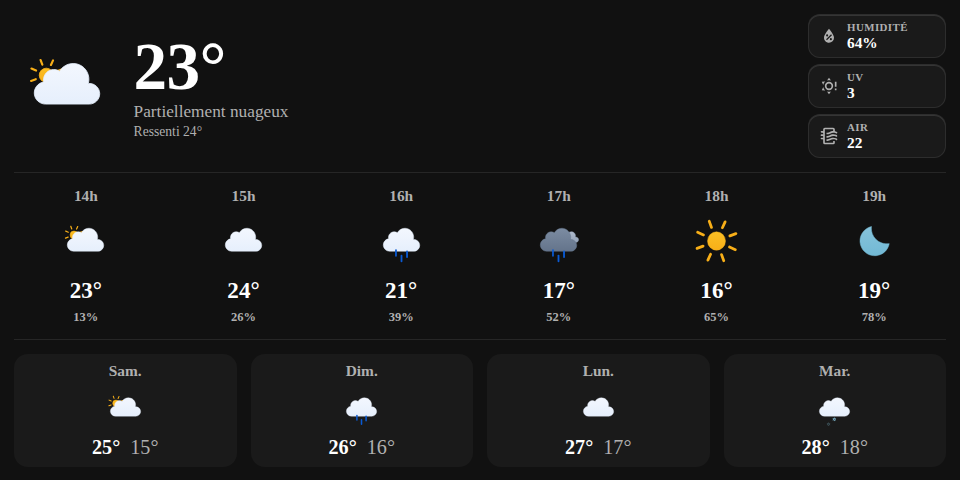
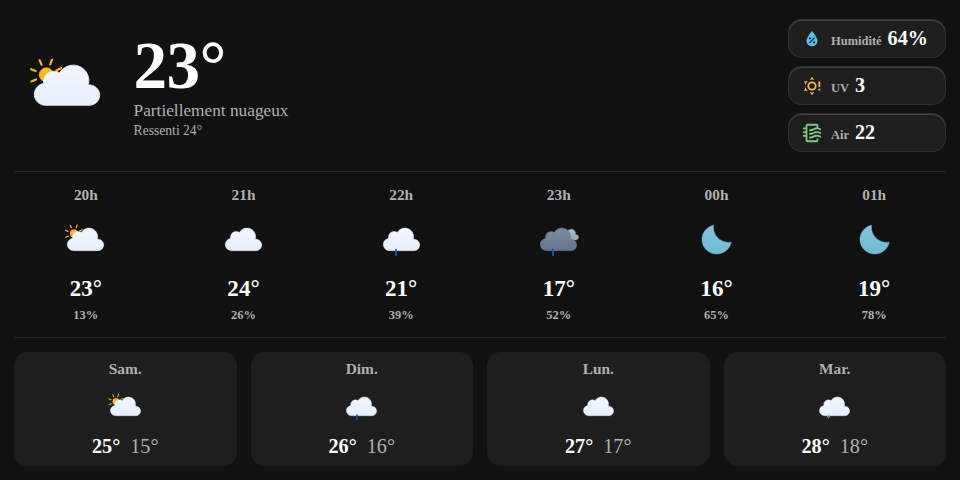
fix: single-line env-tile badges to resolve overflow while staying bold
Les tuiles humidité/UV/qualité de l'air passent d'un empilement à 2
lignes (icône + colonne label/valeur) à un badge pilule sur une seule
ligne (icône + label + valeur inline). Ça corrige le débordement
vertical introduit par le précédent passage "plus gros/plus vif"
(min-height forcé qui dépassait la hauteur naturelle du bloc météo
actuelle), tout en gardant une police et un contraste plus marqués
qu'avant (fond de tuile plus opaque, icônes colorées).

Vérifié sans dépassement sur le harness 960x480 (cardScrollHeight ==
cardClientHeight == 480).

diff --git a/dist/echo-weather-card.js b/dist/echo-weather-card.js
@@ -48,7 +48,7 @@ const xt = (r) => new ft(typeof r == "string" ? r : r + "", void 0, G), Et = (r,
  * Copyright 2017 Google LLC
  * SPDX-License-Identifier: BSD-3-Clause
  */
-const { is: Ct, defineProperty: zt, getOwnPropertyDescriptor: Ot, getOwnPropertyNames: Pt, getOwnPropertySymbols: Ut, getPrototypeOf: Tt } = Object, y = globalThis, Q = y.trustedTypes, kt = Q ? Q.emptyScript : "", D = y.reactiveElementPolyfillSupport, S = (r, t) => r, V = { toAttribute(r, t) {
+const { is: Ct, defineProperty: zt, getOwnPropertyDescriptor: Ot, getOwnPropertyNames: Pt, getOwnPropertySymbols: Ut, getPrototypeOf: Tt } = Object, y = globalThis, Q = y.trustedTypes, kt = Q ? Q.emptyScript : "", q = y.reactiveElementPolyfillSupport, S = (r, t) => r, V = { toAttribute(r, t) {
   switch (t) {
     case Boolean:
       r = r ? kt : null;
@@ -288,14 +288,14 @@ let w = class extends HTMLElement {
   }
 };
 var dt;
-w.elementStyles = [], w.shadowRootOptions = { mode: "open" }, w[S("elementProperties")] = /* @__PURE__ */ new Map(), w[S("finalized")] = /* @__PURE__ */ new Map(), D == null || D({ ReactiveElement: w }), ((dt = y.reactiveElementVersions) != null ? dt : y.reactiveElementVersions = []).push("2.1.2");
+w.elementStyles = [], w.shadowRootOptions = { mode: "open" }, w[S("elementProperties")] = /* @__PURE__ */ new Map(), w[S("finalized")] = /* @__PURE__ */ new Map(), q == null || q({ ReactiveElement: w }), ((dt = y.reactiveElementVersions) != null ? dt : y.reactiveElementVersions = []).push("2.1.2");
 /**
  * @license
  * Copyright 2017 Google LLC
  * SPDX-License-Identifier: BSD-3-Clause
  */
-const C = globalThis, tt = (r) => r, H = C.trustedTypes, et = H ? H.createPolicy("lit-html", { createHTML: (r) => r }) : void 0, yt = "$lit$", m = `lit$${Math.random().toFixed(9).slice(2)}$`, $t = "?" + m, Rt = `<${$t}>`, b = document, O = () => b.createComment(""), P = (r) => r === null || typeof r != "object" && typeof r != "function", J = Array.isArray, Ht = (r) => J(r) || typeof (r == null ? void 0 : r[Symbol.iterator]) == "function", q = `[ 	
-\f\r]`, E = /<(?:(!--|\/[^a-zA-Z])|(\/?[a-zA-Z][^>\s]*)|(\/?$))/g, it = /-->/g, st = />/g, $ = RegExp(`>|${q}(?:([^\\s"'>=/]+)(${q}*=${q}*(?:[^ 	
+const C = globalThis, tt = (r) => r, H = C.trustedTypes, et = H ? H.createPolicy("lit-html", { createHTML: (r) => r }) : void 0, yt = "$lit$", m = `lit$${Math.random().toFixed(9).slice(2)}$`, $t = "?" + m, Rt = `<${$t}>`, b = document, O = () => b.createComment(""), P = (r) => r === null || typeof r != "object" && typeof r != "function", J = Array.isArray, Ht = (r) => J(r) || typeof (r == null ? void 0 : r[Symbol.iterator]) == "function", D = `[ 	
+\f\r]`, E = /<(?:(!--|\/[^a-zA-Z])|(\/?[a-zA-Z][^>\s]*)|(\/?$))/g, it = /-->/g, st = />/g, $ = RegExp(`>|${D}(?:([^\\s"'>=/]+)(${D}*=${D}*(?:[^ 	
 \f\r"'\`<>=]|("|')|))|$)`, "g"), rt = /'/g, nt = /"/g, gt = /^(?:script|style|textarea|title)$/i, Mt = (r) => (t, ...e) => ({ _$litType$: r, strings: t, values: e }), p = Mt(1), A = Symbol.for("lit-noChange"), d = Symbol.for("lit-nothing"), ot = /* @__PURE__ */ new WeakMap(), g = b.createTreeWalker(b, 129);
 function vt(r, t) {
   if (!J(r) || !r.hasOwnProperty("raw")) throw Error("invalid template strings array");
@@ -327,7 +327,7 @@ class U {
       if (s.nodeType === 1) {
         if (s.hasAttributes()) for (const u of s.getAttributeNames()) if (u.endsWith(yt)) {
           const _ = h[o++], f = s.getAttribute(u).split(m), k = /([.?@])?(.*)/.exec(_);
-          a.push({ type: 1, index: n, name: k[2], strings: f, ctor: k[1] === "." ? qt : k[1] === "?" ? Lt : k[1] === "@" ? jt : M }), s.removeAttribute(u);
+          a.push({ type: 1, index: n, name: k[2], strings: f, ctor: k[1] === "." ? Dt : k[1] === "?" ? Lt : k[1] === "@" ? jt : M }), s.removeAttribute(u);
         } else u.startsWith(m) && (a.push({ type: 6, index: n }), s.removeAttribute(u));
         if (gt.test(s.tagName)) {
           const u = s.textContent.split(m), _ = u.length - 1;
@@ -357,7 +357,7 @@ function x(r, t, e = r, i) {
   const n = P(t) ? void 0 : t._$litDirective$;
   return (s == null ? void 0 : s.constructor) !== n && ((l = s == null ? void 0 : s._$AO) == null || l.call(s, !1), n === void 0 ? s = void 0 : (s = new n(r), s._$AT(r, e, i)), i !== void 0 ? ((a = e._$Co) != null ? a : e._$Co = [])[i] = s : e._$Cl = s), s !== void 0 && (t = x(r, s._$AS(r, t.values), s, i)), t;
 }
-class Dt {
+class qt {
   constructor(t, e) {
     this._$AV = [], this._$AN = void 0, this._$AD = t, this._$AM = e;
   }
@@ -423,7 +423,7 @@ class T {
     const { values: e, _$litType$: i } = t, s = typeof i == "number" ? this._$AC(t) : (i.el === void 0 && (i.el = U.createElement(vt(i.h, i.h[0]), this.options)), i);
     if (((n = this._$AH) == null ? void 0 : n._$AD) === s) this._$AH.p(e);
     else {
-      const o = new Dt(s, this), l = o.u(this.options);
+      const o = new qt(s, this), l = o.u(this.options);
       o.p(e), this.T(l), this._$AH = o;
     }
   }
@@ -475,7 +475,7 @@ class M {
     t === d ? this.element.removeAttribute(this.name) : this.element.setAttribute(this.name, t != null ? t : "");
   }
 }
-class qt extends M {
+class Dt extends M {
   constructor() {
     super(...arguments), this.type = 3;
   }
@@ -773,18 +773,21 @@ class W extends z {
   _renderEnvStrip(t) {
     const e = [], i = t.attributes.humidity;
     this._config.show_humidity && i != null && e.push({
+      type: "humidity",
       icon: "mdi:water-percent",
       label: "Humidité",
       value: `${Math.round(i)}%`
     });
     const s = this._config.uv_entity && this._hass.states[this._config.uv_entity];
     s && !["unknown", "unavailable"].includes(s.state) && e.push({
+      type: "uv",
       icon: "mdi:weather-sunny-alert",
       label: "UV",
       value: s.state
     });
     const n = this._config.air_quality_entity && this._hass.states[this._config.air_quality_entity];
     return n && !["unknown", "unavailable"].includes(n.state) && e.push({
+      type: "air",
       icon: "mdi:air-filter",
       label: "Air",
       value: n.state
@@ -792,7 +795,7 @@ class W extends z {
       <div class="env-strip">
         ${e.map(
       (o) => p`
-            <div class="env-tile">
+            <div class="env-tile env-${o.type}">
               <ha-icon class="env-icon" icon=${o.icon}></ha-icon>
               <div class="env-copy">
                 <span class="env-label">${o.label}</span>
@@ -890,7 +893,7 @@ N(W, "properties", {
         var(--secondary-text-color, #b0b0b0)
       );
       --_divider-color: var(--echo-weather-divider-color, rgba(127, 127, 127, 0.2));
-      --_tile-background: var(--echo-weather-tile-background, rgba(127, 127, 127, 0.09));
+      --_tile-background: var(--echo-weather-tile-background, rgba(127, 127, 127, 0.13));
       font-family: var(--echo-weather-font-family, inherit);
       color: var(--_text-color);
     }
@@ -958,42 +961,53 @@ N(W, "properties", {
     .env-strip {
       display: flex;
       flex-direction: column;
-      gap: 6px;
+      gap: 8px;
       flex-shrink: 0;
       margin-left: auto;
     }
     .env-tile {
-      display: grid;
-      grid-template-columns: auto 1fr;
+      display: flex;
       align-items: center;
       gap: 8px;
-      min-width: 116px;
-      padding: 6px 10px;
-      border-radius: 12px;
+      min-width: 132px;
+      padding: 7px 12px;
+      border-radius: 14px;
       background: var(--_tile-background);
       border: 1px solid var(--_divider-color);
-      box-shadow: inset 0 1px 0 rgba(255, 255, 255, 0.12);
+      box-shadow: inset 0 1px 0 rgba(255, 255, 255, 0.16);
     }
+    /* Une couleur d'accent par indicateur : rompt le tout-gris et rend
+       chaque puce identifiable d'un coup d'œil, sans logique de seuil
+       (bon/mauvais) qui serait too much pour la v1. Tuiles en une seule
+       ligne (icône + libellé + valeur) pour rester compactes en hauteur
+       tout en agrandissant la police. */
     .env-icon {
-      --mdc-icon-size: clamp(16px, 2.2cqw, 20px);
-      color: var(--_secondary-color);
+      --mdc-icon-size: clamp(18px, 2.6cqw, 22px);
+      flex-shrink: 0;
+    }
+    .env-humidity .env-icon {
+      color: var(--echo-weather-humidity-color, #4fc3f7);
+    }
+    .env-uv .env-icon {
+      color: var(--echo-weather-uv-color, #ffb74d);
+    }
+    .env-air .env-icon {
+      color: var(--echo-weather-air-color, #81c784);
     }
     .env-copy {
       display: flex;
-      flex-direction: column;
-      line-height: 1.15;
+      align-items: baseline;
+      gap: 6px;
       min-width: 0;
     }
     .env-label {
-      font-size: clamp(0.68rem, 1.1cqw, 0.78rem);
-      font-weight: 700;
-      text-transform: uppercase;
-      letter-spacing: 0.04em;
+      font-size: clamp(0.78rem, 1.3cqw, 0.92rem);
+      font-weight: 600;
       color: var(--_secondary-color);
       white-space: nowrap;
     }
     .env-value {
-      font-size: clamp(0.95rem, 1.6cqw, 1.1rem);
+      font-size: clamp(1.1rem, 2.1cqw, 1.35rem);
       font-weight: 800;
       white-space: nowrap;
     }

diff --git a/src/echo-weather-card.js b/src/echo-weather-card.js
@@ -158,6 +158,7 @@ class EchoWeatherCard extends LitElement {
     const humidity = stateObj.attributes.humidity;
     if (this._config.show_humidity && humidity != null) {
       tiles.push({
+        type: "humidity",
         icon: "mdi:water-percent",
         label: "Humidité",
         value: `${Math.round(humidity)}%`,
@@ -168,6 +169,7 @@ class EchoWeatherCard extends LitElement {
       this._config.uv_entity && this._hass.states[this._config.uv_entity];
     if (uvObj && !["unknown", "unavailable"].includes(uvObj.state)) {
       tiles.push({
+        type: "uv",
         icon: "mdi:weather-sunny-alert",
         label: "UV",
         value: uvObj.state,
@@ -179,6 +181,7 @@ class EchoWeatherCard extends LitElement {
       this._hass.states[this._config.air_quality_entity];
     if (aqiObj && !["unknown", "unavailable"].includes(aqiObj.state)) {
       tiles.push({
+        type: "air",
         icon: "mdi:air-filter",
         label: "Air",
         value: aqiObj.state,
@@ -191,7 +194,7 @@ class EchoWeatherCard extends LitElement {
       <div class="env-strip">
         ${tiles.map(
           (tile) => html`
-            <div class="env-tile">
+            <div class="env-tile env-${tile.type}">
               <ha-icon class="env-icon" icon=${tile.icon}></ha-icon>
               <div class="env-copy">
                 <span class="env-label">${tile.label}</span>
@@ -306,7 +309,7 @@ class EchoWeatherCard extends LitElement {
         var(--secondary-text-color, #b0b0b0)
       );
       --_divider-color: var(--echo-weather-divider-color, rgba(127, 127, 127, 0.2));
-      --_tile-background: var(--echo-weather-tile-background, rgba(127, 127, 127, 0.09));
+      --_tile-background: var(--echo-weather-tile-background, rgba(127, 127, 127, 0.13));
       font-family: var(--echo-weather-font-family, inherit);
       color: var(--_text-color);
     }
@@ -374,42 +377,53 @@ class EchoWeatherCard extends LitElement {
     .env-strip {
       display: flex;
       flex-direction: column;
-      gap: 6px;
+      gap: 8px;
       flex-shrink: 0;
       margin-left: auto;
     }
     .env-tile {
-      display: grid;
-      grid-template-columns: auto 1fr;
+      display: flex;
       align-items: center;
       gap: 8px;
-      min-width: 116px;
-      padding: 6px 10px;
-      border-radius: 12px;
+      min-width: 132px;
+      padding: 7px 12px;
+      border-radius: 14px;
       background: var(--_tile-background);
       border: 1px solid var(--_divider-color);
-      box-shadow: inset 0 1px 0 rgba(255, 255, 255, 0.12);
+      box-shadow: inset 0 1px 0 rgba(255, 255, 255, 0.16);
     }
+    /* Une couleur d'accent par indicateur : rompt le tout-gris et rend
+       chaque puce identifiable d'un coup d'œil, sans logique de seuil
+       (bon/mauvais) qui serait too much pour la v1. Tuiles en une seule
+       ligne (icône + libellé + valeur) pour rester compactes en hauteur
+       tout en agrandissant la police. */
     .env-icon {
-      --mdc-icon-size: clamp(16px, 2.2cqw, 20px);
-      color: var(--_secondary-color);
+      --mdc-icon-size: clamp(18px, 2.6cqw, 22px);
+      flex-shrink: 0;
+    }
+    .env-humidity .env-icon {
+      color: var(--echo-weather-humidity-color, #4fc3f7);
+    }
+    .env-uv .env-icon {
+      color: var(--echo-weather-uv-color, #ffb74d);
+    }
+    .env-air .env-icon {
+      color: var(--echo-weather-air-color, #81c784);
     }
     .env-copy {
       display: flex;
-      flex-direction: column;
-      line-height: 1.15;
+      align-items: baseline;
+      gap: 6px;
       min-width: 0;
     }
     .env-label {
-      font-size: clamp(0.68rem, 1.1cqw, 0.78rem);
-      font-weight: 700;
-      text-transform: uppercase;
-      letter-spacing: 0.04em;
+      font-size: clamp(0.78rem, 1.3cqw, 0.92rem);
+      font-weight: 600;
       color: var(--_secondary-color);
       white-space: nowrap;
     }
     .env-value {
-      font-size: clamp(0.95rem, 1.6cqw, 1.1rem);
+      font-size: clamp(1.1rem, 2.1cqw, 1.35rem);
       font-weight: 800;
       white-space: nowrap;
     }
